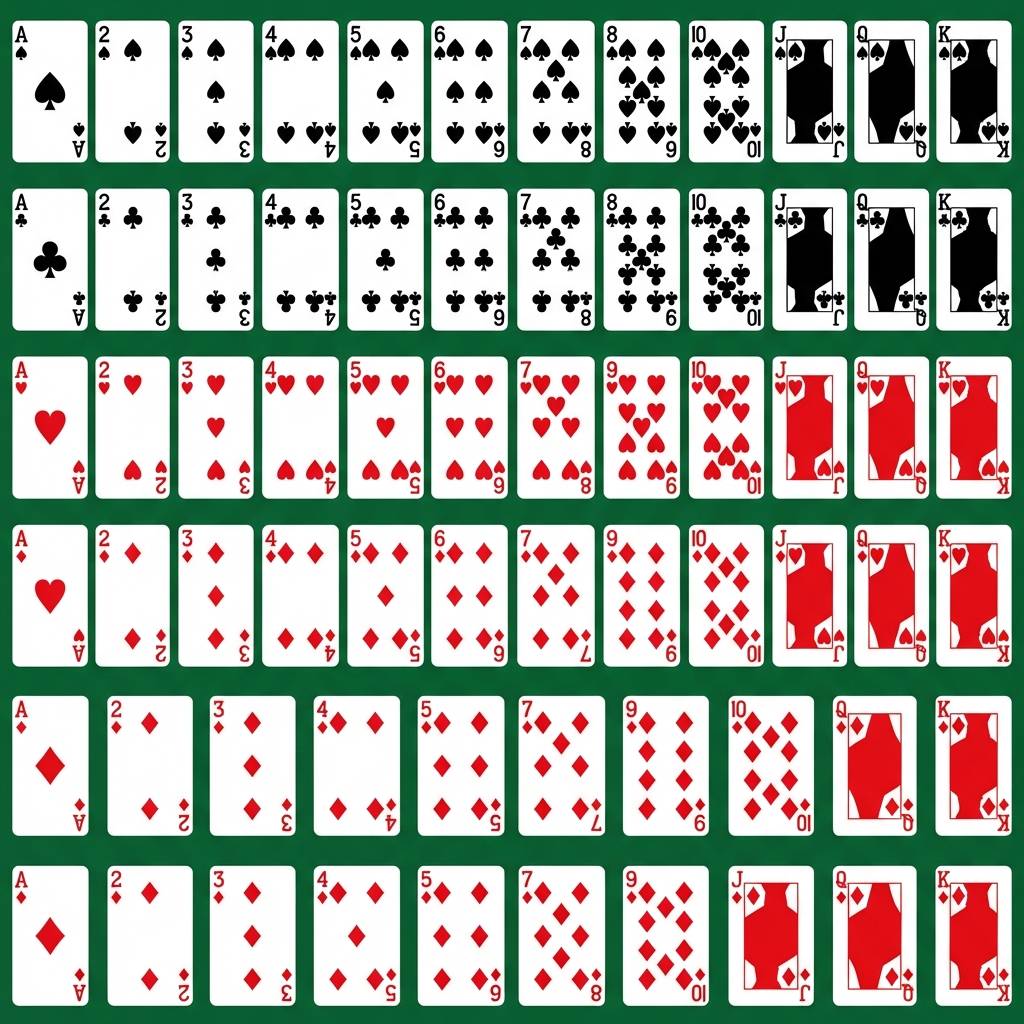
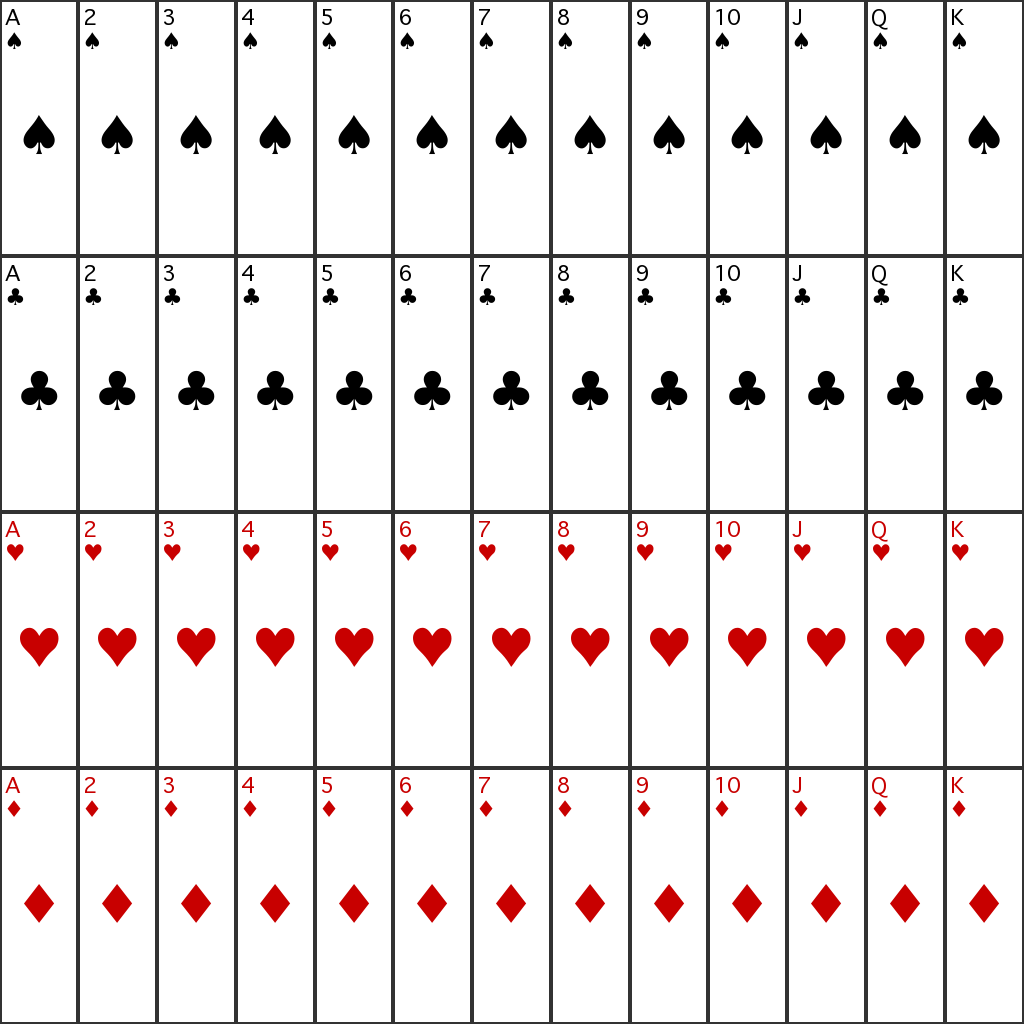
checkpoint

diff --git a/tools/generate_atlas.py b/tools/generate_atlas.py
@@ -1,0 +1,95 @@
+from PIL import Image, ImageDraw, ImageFont
+import os
+
+# Configuration
+WIDTH = 1024
+HEIGHT = 1024
+COLS = 13
+ROWS = 4
+BG_COLOR = (255, 255, 255, 255) # White
+BORDER_COLOR = (50, 50, 50, 255) # Dark Grey
+TEXT_BLACK = (0, 0, 0, 255)
+TEXT_RED = (200, 0, 0, 255)
+
+# Setup
+img = Image.new('RGBA', (WIDTH, HEIGHT), (0,0,0,0)) # Transparent base
+draw = ImageDraw.Draw(img)
+
+# Suits mapping matches CardView.lua
+# Row 0: Spades (s=3) -> Black
+# Row 1: Clubs (s=2) -> Black
+# Row 2: Hearts (s=0) -> Red
+# Row 3: Diamonds (s=1) -> Red
+suits_config = [
+    (0, "♠", TEXT_BLACK), # Spades
+    (1, "♣", TEXT_BLACK), # Clubs
+    (2, "♥", TEXT_RED),   # Hearts
+    (3, "♦", TEXT_RED)    # Diamonds
+]
+
+ranks = ["A", "2", "3", "4", "5", "6", "7", "8", "9", "10", "J", "Q", "K"]
+
+# Fonts
+try:
+    # Try fonts known to support Card Suits on macOS
+    font_candidates = [
+        "/System/Library/Fonts/Apple Symbols.ttf",  # Best for symbols
+        "/System/Library/Fonts/Menlo.ttc",          # Good fallback
+        "/Library/Fonts/Arial.ttf"
+    ]
+    
+    selected_font = None
+    for f in font_candidates:
+        if os.path.exists(f):
+            selected_font = f
+            print(f"Using font: {f}")
+            break
+            
+    if not selected_font:
+        raise Exception("No suitable font found")
+    
+    # Use selected font for logic
+    corner_font = ImageFont.truetype(selected_font, 30)
+    center_font = ImageFont.truetype(selected_font, 70)
+    
+except Exception as e:
+    print(f"Warning: Falling back to default font (symbols may fail). {e}")
+    corner_font = ImageFont.load_default()
+    center_font = corner_font
+
+for r_idx, symbol, color in suits_config:
+    row_y = int(r_idx * HEIGHT / ROWS)
+    row_h = int((r_idx + 1) * HEIGHT / ROWS) - row_y
+    
+    for c_idx, rank in enumerate(ranks):
+        col_x = int(c_idx * WIDTH / COLS)
+        col_w = int((c_idx + 1) * WIDTH / COLS) - col_x
+        
+        # Define Card Rect (with margin)
+        # Lua expects content at col_x. We fill the cell.
+        # But we leave a 1px border transparent to avoid bleeding?
+        # No, Lua logic 'col * width' lands exactly on edge.
+        # Best to have edge be border.
+        
+        rect = [col_x, row_y, col_x + col_w - 1, row_y + row_h - 1]
+        
+        # Fill Card
+        draw.rectangle(rect, fill=BG_COLOR, outline=BORDER_COLOR, width=2)
+        
+        # Corner Text (Top Left)
+        draw.text((col_x + 5, row_y + 5), f"{rank}\n{symbol}", font=corner_font, fill=color)
+        
+        # Center Symbol
+        bbox = draw.textbbox((0, 0), symbol, font=center_font)
+        w = bbox[2] - bbox[0]
+        h = bbox[3] - bbox[1]
+        
+        cx = col_x + col_w / 2
+        cy = row_y + row_h / 2
+        
+        draw.text((cx - w/2, cy - h/2), symbol, font=center_font, fill=color)
+
+# Ensure output directory exists
+os.makedirs("content/images", exist_ok=True)
+img.save("content/images/cards_sheet.png")
+print("Generated content/images/cards_sheet.png")
